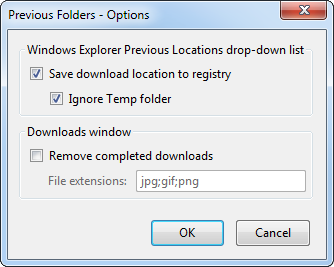
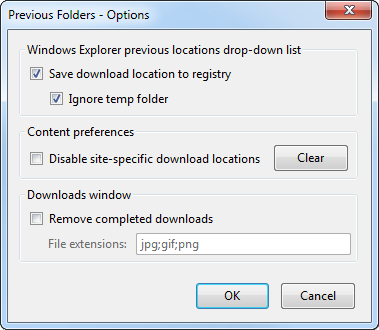
Add an option to disable site-specific download locations

Changed region(s): [[0.0, 0.0, 1.0, 1.0], [0.0599, 0.5393, 0.9281, 0.779]]

diff --git a/src/components/previousfolders.js b/src/components/previousfolders.js
@@ -21,21 +21,52 @@ PreviousFolders.prototype =
 		switch (topic)
 		{
 			case "profile-after-change":
-				this.listener = new PreviousFoldersDownloadProgressListener();
-				Components.classes["@mozilla.org/download-manager;1"].getService(Components.interfaces.nsIDownloadManager).addListener(this.listener);
+				this.downloadProgressListener = new PreviousFoldersDownloadProgressListener();
+				this.contentPrefObserver = new PreviousFoldersContentPrefObserver();
+				Components.classes["@mozilla.org/download-manager;1"].getService(Components.interfaces.nsIDownloadManager).addListener(this.downloadProgressListener);
+				Components.classes["@mozilla.org/content-pref/service;1"].getService(Components.interfaces.nsIContentPrefService).addObserver(this.contentPrefObserver.prefName, this.contentPrefObserver);
 				Components.classes["@mozilla.org/observer-service;1"].getService(Components.interfaces.nsIObserverService).addObserver(this, "quit-application", true);
 				break;
 			
 			case "quit-application":
-				Components.classes["@mozilla.org/download-manager;1"].getService(Components.interfaces.nsIDownloadManager).removeListener(this.listener);
+				Components.classes["@mozilla.org/download-manager;1"].getService(Components.interfaces.nsIDownloadManager).removeListener(this.downloadProgressListener);
+				Components.classes["@mozilla.org/content-pref/service;1"].getService(Components.interfaces.nsIContentPrefService).removeObserver(this.contentPrefObserver);
 				Components.classes["@mozilla.org/observer-service;1"].getService(Components.interfaces.nsIObserverService).removeObserver(this, "quit-application");
 				break;
 		}
 	}
 }
 
+function PreviousFoldersContentPrefObserver()
+{
+	this._cps = Components.classes["@mozilla.org/content-pref/service;1"].getService(Components.interfaces.nsIContentPrefService);
+	this._prefs = Components.classes["@mozilla.org/preferences-service;1"].getService(Components.interfaces.nsIPrefBranch);
+	
+	this.prefName = "browser.download.lastDir";
+}
+
+PreviousFoldersContentPrefObserver.prototype =
+{
+	// nsIContentPrefObserver
+	onContentPrefRemoved: function (group, name) {},
+	
+	onContentPrefSet: function (group, name, value)
+	{
+		let disableContent_pref = this._prefs.getBoolPref("extensions.previousfolders.disableContentPref");
+		if (group != null && name == this.prefName && disableContent_pref)
+		{
+			this._cps.removePref(group, name);
+		}
+	}	
+}
+
 function PreviousFoldersDownloadProgressListener()
 {
+	this._pbs = Components.classes["@mozilla.org/privatebrowsing;1"].getService(Components.interfaces.nsIPrivateBrowsingService);
+	this._prefs = Components.classes["@mozilla.org/preferences-service;1"].getService(Components.interfaces.nsIPrefBranch);
+	this._env = Components.classes["@mozilla.org/process/environment;1"].getService(Components.interfaces.nsIEnvironment);
+	this._dm = Components.classes["@mozilla.org/download-manager;1"].getService(Components.interfaces.nsIDownloadManager);
+	
 	let os = Components.classes["@mozilla.org/xre/app-info;1"].getService(Components.interfaces.nsIXULRuntime).OS;
 	if (os == "WINNT")
 	{
@@ -58,12 +89,11 @@ function PreviousFoldersDownloadProgressListener()
 
 PreviousFoldersDownloadProgressListener.prototype =
 {	
-	_pbs: Components.classes["@mozilla.org/privatebrowsing;1"].getService(Components.interfaces.nsIPrivateBrowsingService),
-	_prefs: Components.classes["@mozilla.org/preferences-service;1"].getService(Components.interfaces.nsIPrefBranch),
-	_env: Components.classes["@mozilla.org/process/environment;1"].getService(Components.interfaces.nsIEnvironment),
-	_dm: Components.classes["@mozilla.org/download-manager;1"].getService(Components.interfaces.nsIDownloadManager),
-
 	// nsIDownloadProgressListener
+	onProgressChange: function() {},
+	onSecurityChange: function() {},
+	onStateChange: function() {},
+
 	onDownloadStateChange: function(state, download)
 	{
 		switch (download.state)
@@ -86,10 +116,6 @@ PreviousFoldersDownloadProgressListener.prototype =
 				break;
 		}
 	},
-
-	onProgressChange: function() {},
-	onSecurityChange: function() {},
-	onStateChange: function() {},
 
 	addRegistryKey: function(download)
 	{

diff --git a/src/chrome/content/options.js b/src/chrome/content/options.js
@@ -12,35 +12,21 @@ previousfolders.options =
 		let privateBrowsingEnabled = Components.classes["@mozilla.org/privatebrowsing;1"].getService(Components.interfaces.nsIPrivateBrowsingService).privateBrowsingEnabled;
 		if (privateBrowsingEnabled)
 		{
-			previousfolders.options.showPBMMessage();
-			previousfolders.options.disableSave(true);
-			previousfolders.options.disableTemp(true);
+			document.getElementById("previousfolders-pbm-box").removeAttribute("hidden");
+			this.disableSave(true);
+			this.disableTemp(true);
 		} else
 		{
 			let saveChecked = document.getElementById("previousfolders-save-check").checked;
-			previousfolders.options.disableTemp(!saveChecked);
-		}	
+			this.disableTemp(!saveChecked);
+		}
+		
+		this.initClearButton();
+				
 		let removeChecked = document.getElementById("previousfolders-remove-check").checked;
-		previousfolders.options.disableExtensions(!removeChecked);
+		this.disableExtensions(!removeChecked);
 	},
-	
-	showPBMMessage : function()
-	{
-		let desc = document.createElement("description");
-		desc.setAttribute("id", "previousfolders-pbm-desc");
-		desc.setAttribute("style", "color:purple");
-		let stringBundle = document.getElementById("previousfolders-string-bundle");
-		let descString = stringBundle.getString("privateBrowsingMode");
-		let descTooltip = stringBundle.getString("privateBrowsingModeTooltip");
-		desc.setAttribute("value", descString);
-		desc.setAttribute("tooltiptext", descTooltip);
-		let box = document.createElement("box");
-		box.setAttribute("pack", "center");
-		box.appendChild(desc);
-		let saveCheck = document.getElementById("previousfolders-save-check");
-		saveCheck.parentNode.insertBefore(box, saveCheck);
-	},
-	
+		
 	disableSave : function(disable)
 	{
 		if (disable)
@@ -74,5 +60,51 @@ previousfolders.options =
 			document.getElementById("previousfolders-extensions-label").removeAttribute("disabled");
 			document.getElementById("previousfolders-extensions-textbox").removeAttribute("disabled");
 		}
+	},
+
+	initClearButton : function()
+	{
+		let stringBundle = document.getElementById("previousfolders-string-bundle");
+		let clearButton = document.getElementById("previousfolders-clearcontent-button");
+		let count = this.countContentPrefs();
+		if (count == 0)
+		{
+			clearButton.setAttribute("disabled", "true");
+			let tooltip = stringBundle.getString("previousfolders-clearcontent-button-disabledtooltip");
+			clearButton.setAttribute("tooltiptext", tooltip);
+		} else
+		{
+			clearButton.removeAttribute("disabled");
+			let tooltip = stringBundle.getString("previousfolders-clearcontent-button-enabledtooltip");
+			tooltip = tooltip.replace("%1", count);
+			clearButton.setAttribute("tooltiptext", tooltip);
+		}
+	},
+
+	clearContentPrefs : function()
+	{
+		let count = this.countContentPrefs();
+		try
+		{
+			Components.classes["@mozilla.org/content-pref/service;1"].getService(Components.interfaces.nsIContentPrefService).removePrefsByName("browser.download.lastDir");
+
+		} catch (ex)
+		{
+			// We don't need to do anything, settings are cleared regardless.
+			// Components.classes["@mozilla.org/consoleservice;1"].getService(Components.interfaces.nsIConsoleService).logStringMessage("Previous Folders: " + ex);
+		}
+		this.initClearButton();
+	},
+	
+	countContentPrefs : function()
+	{
+		let count = 0;
+		let enumerator = Components.classes["@mozilla.org/content-pref/service;1"].getService(Components.interfaces.nsIContentPrefService).getPrefsByName("browser.download.lastDir").enumerator;
+		while (enumerator.hasMoreElements())
+		{
+			enumerator.getNext();
+			count++;
+		}
+		return count;
 	}
 };

diff --git a/src/defaults/preferences/pref.js b/src/defaults/preferences/pref.js
@@ -2,3 +2,4 @@ pref("extensions.previousfolders.saveToRegistry", true);
 pref("extensions.previousfolders.removeDownload", false);
 pref("extensions.previousfolders.ignoreTempFolder", true);
 pref("extensions.previousfolders.extensionList", "jpg;gif;png");
+pref("extensions.previousfolders.disableContentPref", false);
